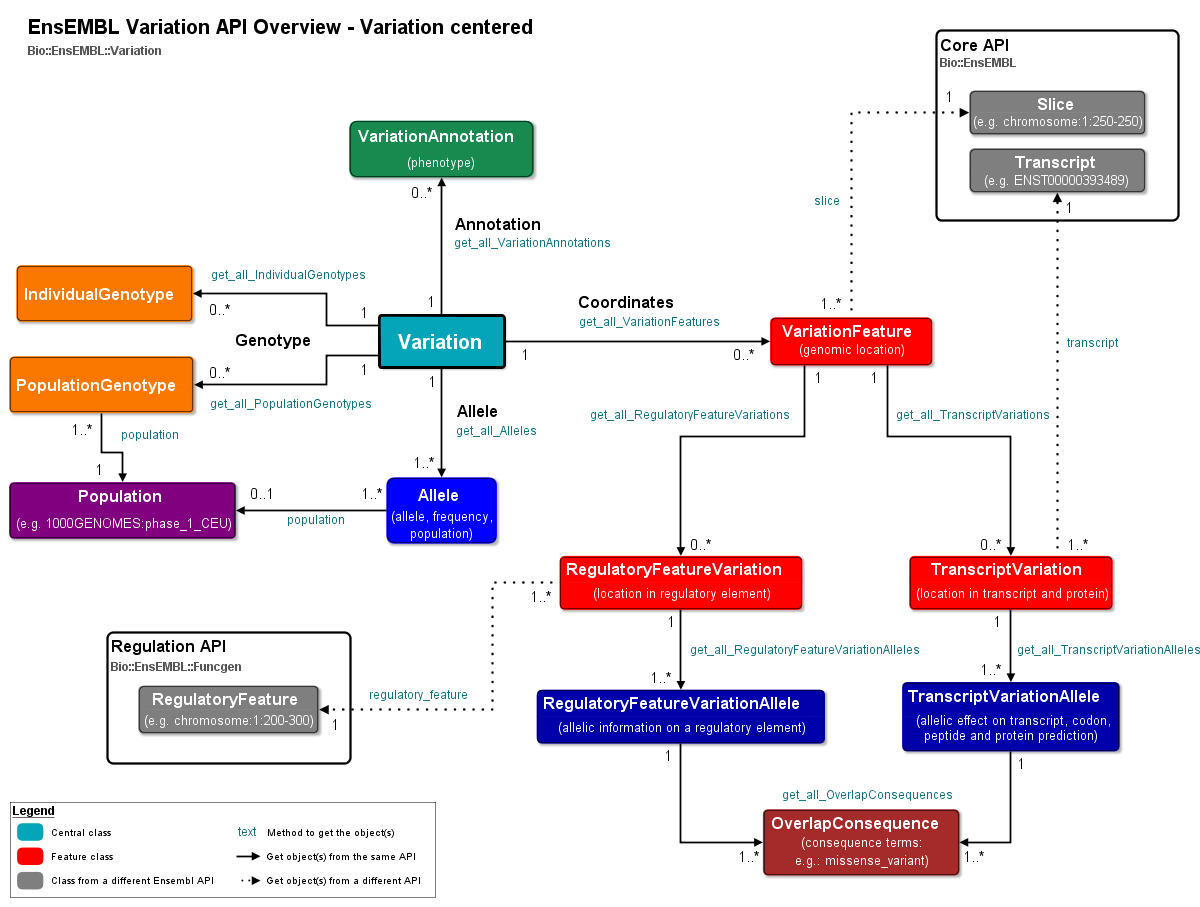
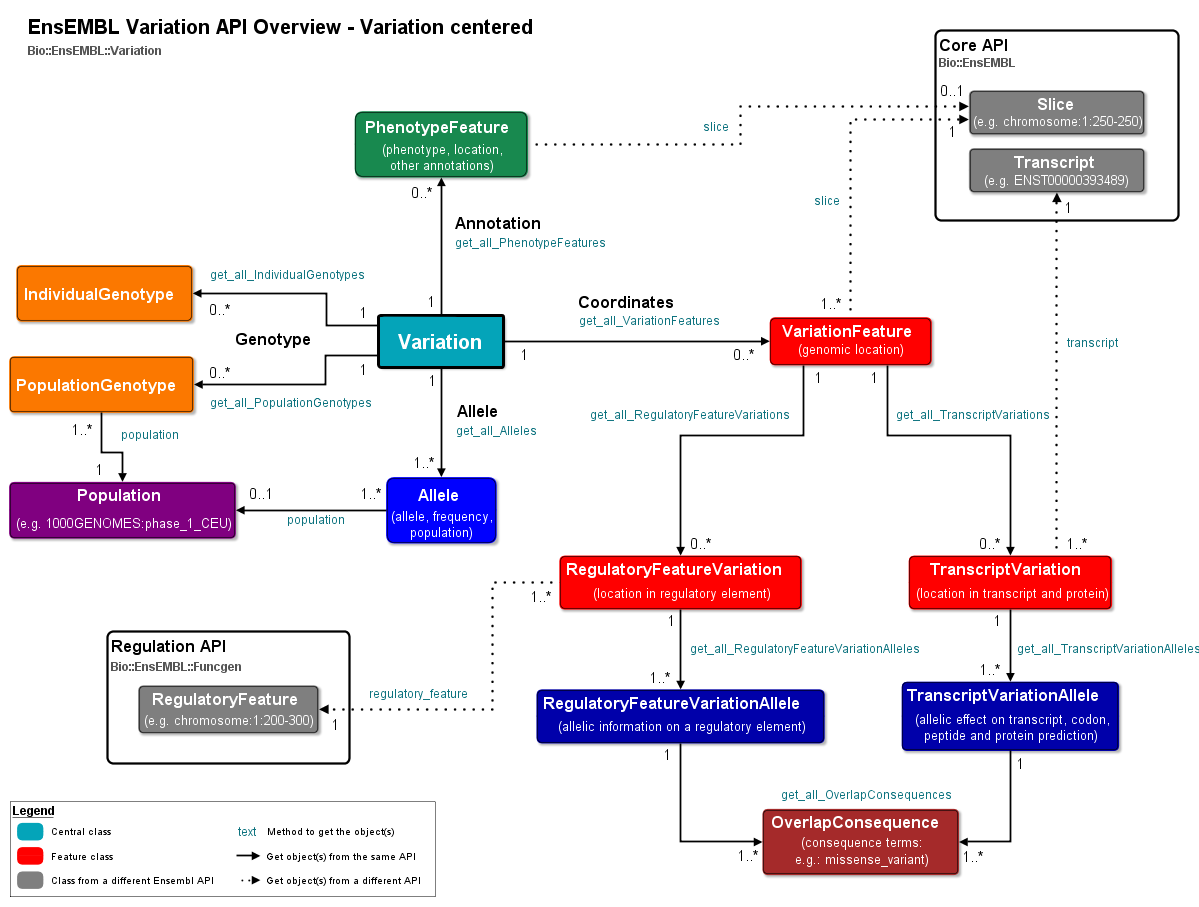
Update the Variation API diagram for e!71

diff --git a/htdocs/info/docs/api/variation/variation_API_diagram.html b/htdocs/info/docs/api/variation/variation_API_diagram.html
@@ -11,7 +11,7 @@
 </script>
 
 
-<div class="tooltip" id="n54">Click to view the VariationAnnotation class documentation</div>
+<div class="tooltip" id="n54">Click to view the PhenotypeFeature class documentation</div>
 <div class="tooltip" id="n55">Click to view the Allele class documentation</div>
 <div class="tooltip" id="n56">Click to view the IndividualGenotype class documentation</div>
 <div class="tooltip" id="n57">Click to view the PopulationGenotype class documentation</div>
@@ -31,24 +31,24 @@
 <div class="tooltip" id="n71">Click to view the RegulatoryFeatureVariationAllele class documentation</div>
 
 <map name="image1_1">
-  <area shape="rect" coords="537,675,825,729" href="http://www.ensembl.org/info/docs/Doxygen/variation-api/classBio_1_1EnsEMBL_1_1Variation_1_1RegulatoryFeatureVariationAllele.html" alt="" target="_blank" onmouseout="hideTooltip()" onmouseover="showTooltip('n71')"/>
-  <area shape="rect" coords="560,555,802,609" href="http://www.ensembl.org/info/docs/Doxygen/variation-api/classBio_1_1EnsEMBL_1_1Variation_1_1RegulatoryFeatureVariation.html" alt="" target="_blank" onmouseout="hideTooltip()" onmouseover="showTooltip('n70')"/>
-  <area shape="rect" coords="763,808,959,874" href="http://www.ensembl.org/info/docs/Doxygen/variation-api/classBio_1_1EnsEMBL_1_1Variation_1_1OverlapConsequence.html" alt="" target="_blank" onmouseout="hideTooltip()" onmouseover="showTooltip('n69')"/>
-  <area shape="rect" coords="902,668,1119,737" href="http://www.ensembl.org/info/docs/Doxygen/variation-api/classBio_1_1EnsEMBL_1_1Variation_1_1TranscriptVariationAllele.html" alt="" target="_blank" onmouseout="hideTooltip()" onmouseover="showTooltip('n68')"/>
-  <area shape="rect" coords="969,148,1145,192" href="http://www.ensembl.org/info/docs/Doxygen/core-api/classBio_1_1EnsEMBL_1_1Transcript.html" alt="" target="_blank" onmouseout="hideTooltip()" onmouseover="showTooltip('n67')"/>
-  <area shape="rect" coords="969,90,1145,134" href="http://www.ensembl.org/info/docs/Doxygen/core-api/classBio_1_1EnsEMBL_1_1Slice.html" alt="" target="_blank" onmouseout="hideTooltip()" onmouseover="showTooltip('n66')"/>
-  <area shape="rect" coords="909,555,1112,609" href="http://www.ensembl.org/info/docs/Doxygen/variation-api/classBio_1_1EnsEMBL_1_1Variation_1_1TranscriptVariation.html" alt="" target="_blank" onmouseout="hideTooltip()" onmouseover="showTooltip('n65')"/>
-  <area shape="rect" coords="770,317,932,365" href="http://www.ensembl.org/info/docs/Doxygen/variation-api/classBio_1_1EnsEMBL_1_1Variation_1_1VariationFeature.html" alt="" target="_blank" onmouseout="hideTooltip()" onmouseover="showTooltip('n64')"/>
-  <area shape="rect" coords="108,655,252,677" href="http://www.ensembl.org/info/docs/Doxygen/funcgen-api/index.html" alt="" target="_blank" onmouseout="hideTooltip()" onmouseover="showTooltip('n63')"/>
-  <area shape="rect" coords="936,50,1024,72" href="http://www.ensembl.org/info/docs/Doxygen/core-api/index.html" alt="" target="_blank" onmouseout="hideTooltip()" onmouseover="showTooltip('n62')"/>
-  <area shape="rect" coords="20,39,176,61" href="http://www.ensembl.org/info/docs/Doxygen/variation-api/index.html" alt="" target="_blank" onmouseout="hideTooltip()" onmouseover="showTooltip('n61')"/>
-  <area shape="rect" coords="139,685,320,733" href="http://www.ensembl.org/info/docs/Doxygen/funcgen-api/classBio_1_1EnsEMBL_1_1Funcgen_1_1RegulatoryFeature.html" alt="" target="_blank" onmouseout="hideTooltip()" onmouseover="showTooltip('n60')"/>
-  <area shape="rect" coords="10,481,237,538" href="http://www.ensembl.org/info/docs/Doxygen/variation-api/classBio_1_1EnsEMBL_1_1Variation_1_1Population.html" alt="" target="_blank" onmouseout="hideTooltip()" onmouseover="showTooltip('n59')"/>
-  <area shape="rect" coords="379,314,504,367" href="http://www.ensembl.org/info/docs/Doxygen/variation-api/classBio_1_1EnsEMBL_1_1Variation_1_1Variation.html" alt="" target="_blank" onmouseout="hideTooltip()" onmouseover="showTooltip('n58')"/>
-  <area shape="rect" coords="10,356,195,412" href="http://www.ensembl.org/info/docs/Doxygen/variation-api/classBio_1_1EnsEMBL_1_1Variation_1_1PopulationGenotype.html" alt="" target="_blank" onmouseout="hideTooltip()" onmouseover="showTooltip('n57')"/>
-  <area shape="rect" coords="17,264,193,321" href="http://www.ensembl.org/info/docs/Doxygen/variation-api/classBio_1_1EnsEMBL_1_1Variation_1_1IndividualGenotype.html" alt="" target="_blank" onmouseout="hideTooltip()" onmouseover="showTooltip('n56')"/>
-  <area shape="rect" coords="387,476,497,543" href="http://www.ensembl.org/info/docs/Doxygen/variation-api/classBio_1_1EnsEMBL_1_1Variation_1_1Allele.html" alt="" target="_blank" onmouseout="hideTooltip()" onmouseover="showTooltip('n55')"/>
-  <area shape="rect" coords="350,120,534,177" href="http://www.ensembl.org/info/docs/Doxygen/variation-api/classBio_1_1EnsEMBL_1_1Variation_1_1VariationAnnotation.html" alt="" target="_blank" onmouseout="hideTooltip()" onmouseover="showTooltip('n54')"/>
+  <area shape="rect" coords="536,689,824,743" href="http://www.ensembl.org/info/docs/Doxygen/variation-api/classBio_1_1EnsEMBL_1_1Variation_1_1RegulatoryFeatureVariationAllele.html" alt="" target="_blank" onmouseout="hideTooltip()" onmouseover="showTooltip('n71')"/>
+  <area shape="rect" coords="559,555,801,609" href="http://www.ensembl.org/info/docs/Doxygen/variation-api/classBio_1_1EnsEMBL_1_1Variation_1_1RegulatoryFeatureVariation.html" alt="" target="_blank" onmouseout="hideTooltip()" onmouseover="showTooltip('n70')"/>
+  <area shape="rect" coords="762,808,959,875" href="http://www.ensembl.org/info/docs/Doxygen/variation-api/classBio_1_1EnsEMBL_1_1Variation_1_1OverlapConsequence.html" alt="" target="_blank" onmouseout="hideTooltip()" onmouseover="showTooltip('n69')"/>
+  <area shape="rect" coords="901,681,1119,750" href="http://www.ensembl.org/info/docs/Doxygen/variation-api/classBio_1_1EnsEMBL_1_1Variation_1_1TranscriptVariationAllele.html" alt="" target="_blank" onmouseout="hideTooltip()" onmouseover="showTooltip('n68')"/>
+  <area shape="rect" coords="968,148,1144,192" href="http://www.ensembl.org/info/docs/Doxygen/core-api/classBio_1_1EnsEMBL_1_1Transcript.html" alt="" target="_blank" onmouseout="hideTooltip()" onmouseover="showTooltip('n67')"/>
+  <area shape="rect" coords="968,90,1144,134" href="http://www.ensembl.org/info/docs/Doxygen/core-api/classBio_1_1EnsEMBL_1_1Slice.html" alt="" target="_blank" onmouseout="hideTooltip()" onmouseover="showTooltip('n66')"/>
+  <area shape="rect" coords="908,555,1112,609" href="http://www.ensembl.org/info/docs/Doxygen/variation-api/classBio_1_1EnsEMBL_1_1Variation_1_1TranscriptVariation.html" alt="" target="_blank" onmouseout="hideTooltip()" onmouseover="showTooltip('n65')"/>
+  <area shape="rect" coords="769,317,931,365" href="http://www.ensembl.org/info/docs/Doxygen/variation-api/classBio_1_1EnsEMBL_1_1Variation_1_1VariationFeature.html" alt="" target="_blank" onmouseout="hideTooltip()" onmouseover="showTooltip('n64')"/>
+  <area shape="rect" coords="107,655,251,677" href="http://www.ensembl.org/info/docs/Doxygen/funcgen-api/index.html" alt="" target="_blank" onmouseout="hideTooltip()" onmouseover="showTooltip('n63')"/>
+  <area shape="rect" coords="935,50,1023,72" href="http://www.ensembl.org/info/docs/Doxygen/core-api/index.html" alt="" target="_blank" onmouseout="hideTooltip()" onmouseover="showTooltip('n62')"/>
+  <area shape="rect" coords="19,39,175,61" href="http://www.ensembl.org/info/docs/Doxygen/variation-api/index.html" alt="" target="_blank" onmouseout="hideTooltip()" onmouseover="showTooltip('n61')"/>
+  <area shape="rect" coords="138,685,318,733" href="http://www.ensembl.org/info/docs/Doxygen/funcgen-api/classBio_1_1EnsEMBL_1_1Funcgen_1_1RegulatoryFeature.html" alt="" target="_blank" onmouseout="hideTooltip()" onmouseover="showTooltip('n60')"/>
+  <area shape="rect" coords="9,481,235,538" href="http://www.ensembl.org/info/docs/Doxygen/variation-api/classBio_1_1EnsEMBL_1_1Variation_1_1Population.html" alt="" target="_blank" onmouseout="hideTooltip()" onmouseover="showTooltip('n59')"/>
+  <area shape="rect" coords="378,315,503,367" href="http://www.ensembl.org/info/docs/Doxygen/variation-api/classBio_1_1EnsEMBL_1_1Variation_1_1Variation.html" alt="" target="_blank" onmouseout="hideTooltip()" onmouseover="showTooltip('n58')"/>
+  <area shape="rect" coords="9,356,194,412" href="http://www.ensembl.org/info/docs/Doxygen/variation-api/classBio_1_1EnsEMBL_1_1Variation_1_1PopulationGenotype.html" alt="" target="_blank" onmouseout="hideTooltip()" onmouseover="showTooltip('n57')"/>
+  <area shape="rect" coords="16,265,192,321" href="http://www.ensembl.org/info/docs/Doxygen/variation-api/classBio_1_1EnsEMBL_1_1Variation_1_1IndividualGenotype.html" alt="" target="_blank" onmouseout="hideTooltip()" onmouseover="showTooltip('n56')"/>
+  <area shape="rect" coords="386,477,496,543" href="http://www.ensembl.org/info/docs/Doxygen/variation-api/classBio_1_1EnsEMBL_1_1Variation_1_1Allele.html" alt="" target="_blank" onmouseout="hideTooltip()" onmouseover="showTooltip('n55')"/>
+  <area shape="rect" coords="354,111,528,177" href="http://www.ensembl.org/info/docs/Doxygen/variation-api/classBio_1_1EnsEMBL_1_1Variation_1_1PhenotypeFeature.html" alt="" target="_blank" onmouseout="hideTooltip()" onmouseover="showTooltip('n54')"/>
 </map>
 
     <table class="yimagetable" cellspacing="0" cellpadding="0" border="0">
